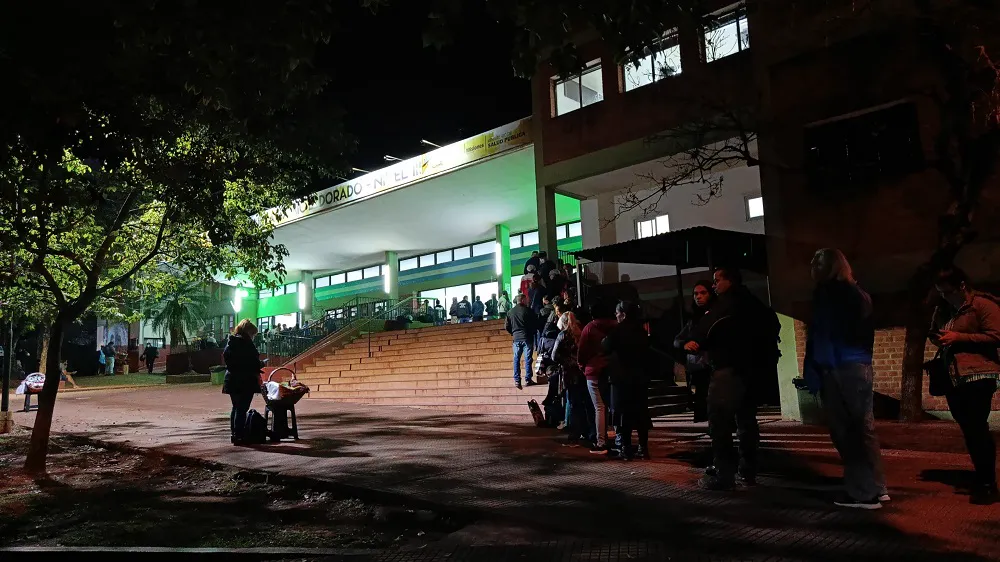
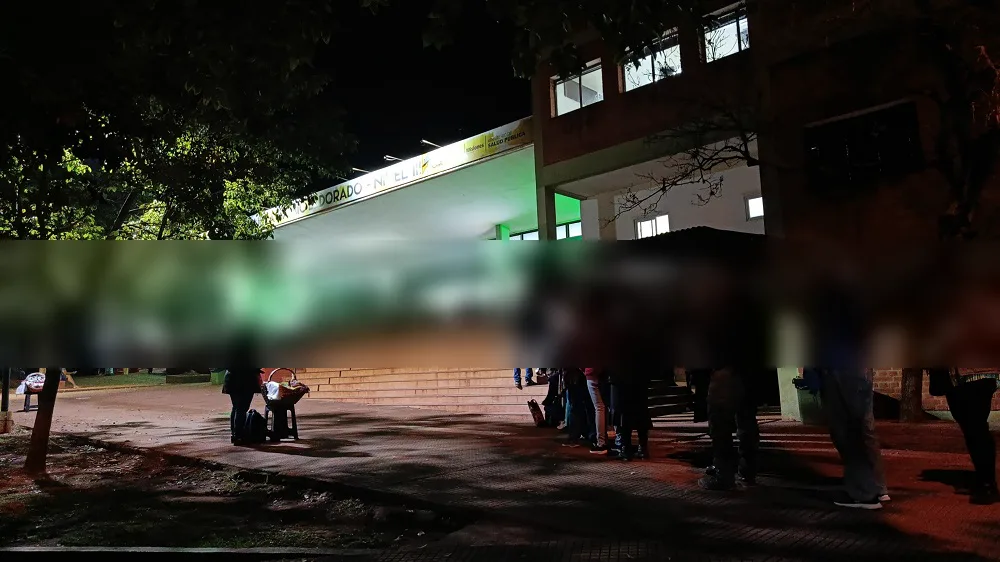
Desenfocar caras, remate en ambar y encendido al pasar el mouse

diff --git a/sitio/css/estilos.css b/sitio/css/estilos.css
@@ -10,6 +10,7 @@
   --violeta:#5B3A9E;
   --violeta-osc:#3F2B63;
   --arena:#EFE7D8;
+  --senal:#F5C451;
   --gris:#5F594E;
   --linea:#D8D0C0;
   --serif:'Fraunces',Georgia,serif;
@@ -134,8 +135,8 @@ h3{font-family:var(--serif);font-weight:600;font-size:23px}
 .reclamo{background:var(--violeta);color:var(--crudo);display:grid;grid-template-columns:1.15fr 1fr;overflow:hidden}
 .reclamo-txt{padding:clamp(40px,6vw,90px)}
 .reclamo-txt h2{color:#fff;font-size:clamp(21px,2.4vw,30px);font-weight:600;line-height:1.2;opacity:.9}
-.reclamo-txt .remate{display:block;margin-top:.5em;font-size:clamp(34px,4.6vw,60px);font-weight:900;
-  line-height:1.02;opacity:1;letter-spacing:-.015em}
+.reclamo-txt .remate{display:block;margin-top:.5em;font-size:clamp(32px,4.2vw,54px);font-weight:900;
+  line-height:1.02;opacity:1;letter-spacing:-.015em;color:var(--senal)}
 .reclamo-txt p{margin-top:18px;opacity:.92;max-width:50ch}
 .reclamo-txt strong{border-bottom:2px solid var(--crudo)}
 .chips{list-style:none;display:flex;gap:10px;margin-top:24px;flex-wrap:wrap}
@@ -149,11 +150,19 @@ h3{font-family:var(--serif);font-weight:600;font-size:23px}
   grid-template-rows:repeat(3,1fr);gap:3px}
 .collage figure{position:relative;margin:0;overflow:hidden;background:#000}
 .collage img{width:100%;height:100%;object-fit:cover;
-  filter:grayscale(.55) contrast(1.1) brightness(.62);transition:filter .5s ease,transform .6s ease}
-.collage figure:hover img{filter:grayscale(0) contrast(1.05) brightness(.85);transform:scale(1.04)}
+  filter:grayscale(.6) contrast(1.1) brightness(.6);transition:filter .45s ease,transform .7s ease}
+/* Al pasar el mouse la foto se enciende y sale del gris */
+.collage figure:hover img,.collage figure:focus-within img{
+  filter:grayscale(0) contrast(1.08) brightness(1.22) saturate(1.15);transform:scale(1.06)}
+/* Halo de luz que acompaña el encendido */
+.collage figure::after{content:"";position:absolute;inset:0;pointer-events:none;
+  box-shadow:inset 0 0 0 0 rgba(245,196,81,0);transition:box-shadow .45s ease;z-index:2}
+.collage figure:hover::after{box-shadow:inset 0 0 44px 6px rgba(245,196,81,.28),
+  inset 0 0 0 2px rgba(245,196,81,.75)}
 .collage figcaption{position:absolute;left:0;bottom:0;background:var(--noche);color:#CBB7F2;
   font-family:var(--mono);font-size:10.5px;letter-spacing:.18em;text-transform:uppercase;
-  padding:4px 9px}
+  padding:4px 9px;z-index:3;transition:background .45s ease,color .45s ease}
+.collage figure:hover figcaption{background:var(--senal);color:var(--noche)}
 .c1{grid-column:1;grid-row:1}
 .c2{grid-column:2;grid-row:1/3}
 .c3{grid-column:1;grid-row:2}
@@ -163,7 +172,7 @@ h3{font-family:var(--serif);font-weight:600;font-size:23px}
 .c1 figcaption,.c2 figcaption{top:0;bottom:auto}
 /* La foto nocturna necesita más luz para leerse */
 .c3 img{filter:grayscale(.25) brightness(2.6) contrast(1.25);object-position:center 22%}
-.c3:hover img{filter:grayscale(0) brightness(3) contrast(1.2)}
+.c3:hover img{filter:grayscale(0) brightness(3.4) contrast(1.2) saturate(1.15)}
 /* Velo para que la faja se lea sobre las fotos */
 .reclamo-panel::before{content:"";position:absolute;inset:0;background:rgba(19,16,23,.5);z-index:1}
 .cinta{position:relative;z-index:2;width:130%;background:var(--crudo);color:var(--violeta-osc);

diff --git a/sitio/index.html b/sitio/index.html
@@ -132,7 +132,7 @@
   <div class="reclamo-txt">
     <span class="tag tag-claro">Herramienta vecinal</span>
     <h2>¿Problemas en tu barrio?<br>¿Con alguna gestión municipal?<br>¿Turnos en organismos públicos?<br>
-    <span class="remate">Contámelo. En serio.</span></h2>
+    <span class="remate">Mostrámelo. Contámelo. En serio.</span></h2>
     <p>Armé una plataforma para que cargues tu reclamo en un minuto y puedas seguir su estado:
     sin ventanilla, sin vueltas, sin perderse en un papel.</p>
     <ul class="chips" aria-label="Categorías de reclamos">
